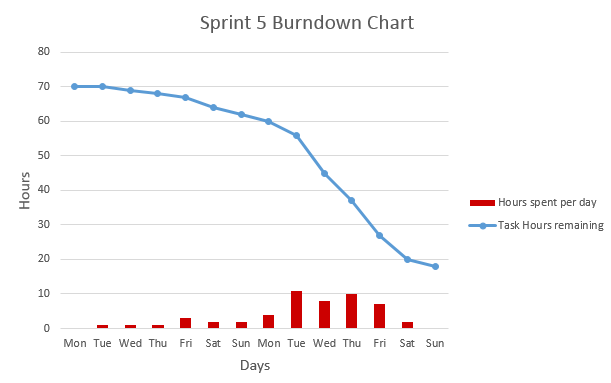
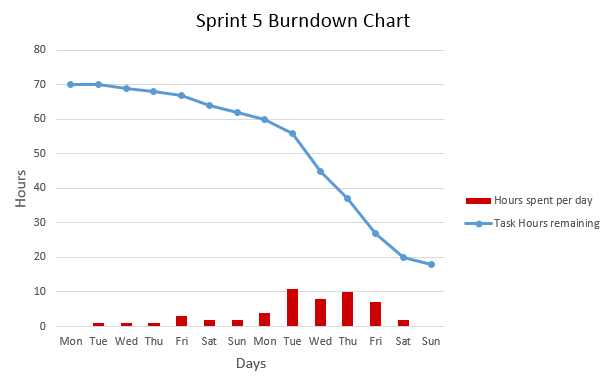
Fine tuned sizes of charts

diff --git a/Final Progress Report/sections/sprints.tex b/Final Progress Report/sections/sprints.tex
@@ -102,7 +102,7 @@ The things that went well for this sprint was team communication with the game d
 \begin{figure}[H]
 	\centering
 	\graphicspath{ {./graphics/} }
-    \centerline{\includegraphics[scale=0.7]{sprint5.PNG}}
+    \centerline{\includegraphics[scale=0.55]{sprint5.PNG}}
     \caption{\label{fig:s5}Sprint backlog for sprint 5}
 \end{figure}
 
@@ -127,7 +127,7 @@ What could have gone better this sprint was that the security patches took much 
 \begin{figure}[H]
 	\centering
 	\graphicspath{ {./graphics/} }
-    \centerline{\includegraphics[scale=0.7]{sprint6.PNG}}
+    \centerline{\includegraphics[scale=0.5]{sprint6.PNG}}
     \caption{\label{fig:s6}Sprint backlog for sprint 6}
 \end{figure}
 
@@ -148,7 +148,7 @@ The final sprint was a half sprint and the theme was putting the final touches o
 \begin{figure}[H]
 	\centering
 	\graphicspath{ {./graphics/} }
-    \centerline{\includegraphics[scale=0.7]{sprint7.PNG}}
+    \centerline{\includegraphics[scale=0.5]{sprint7.PNG}}
     \caption{\label{fig:s7}Sprint backlog for sprint 7}
 \end{figure}
 
